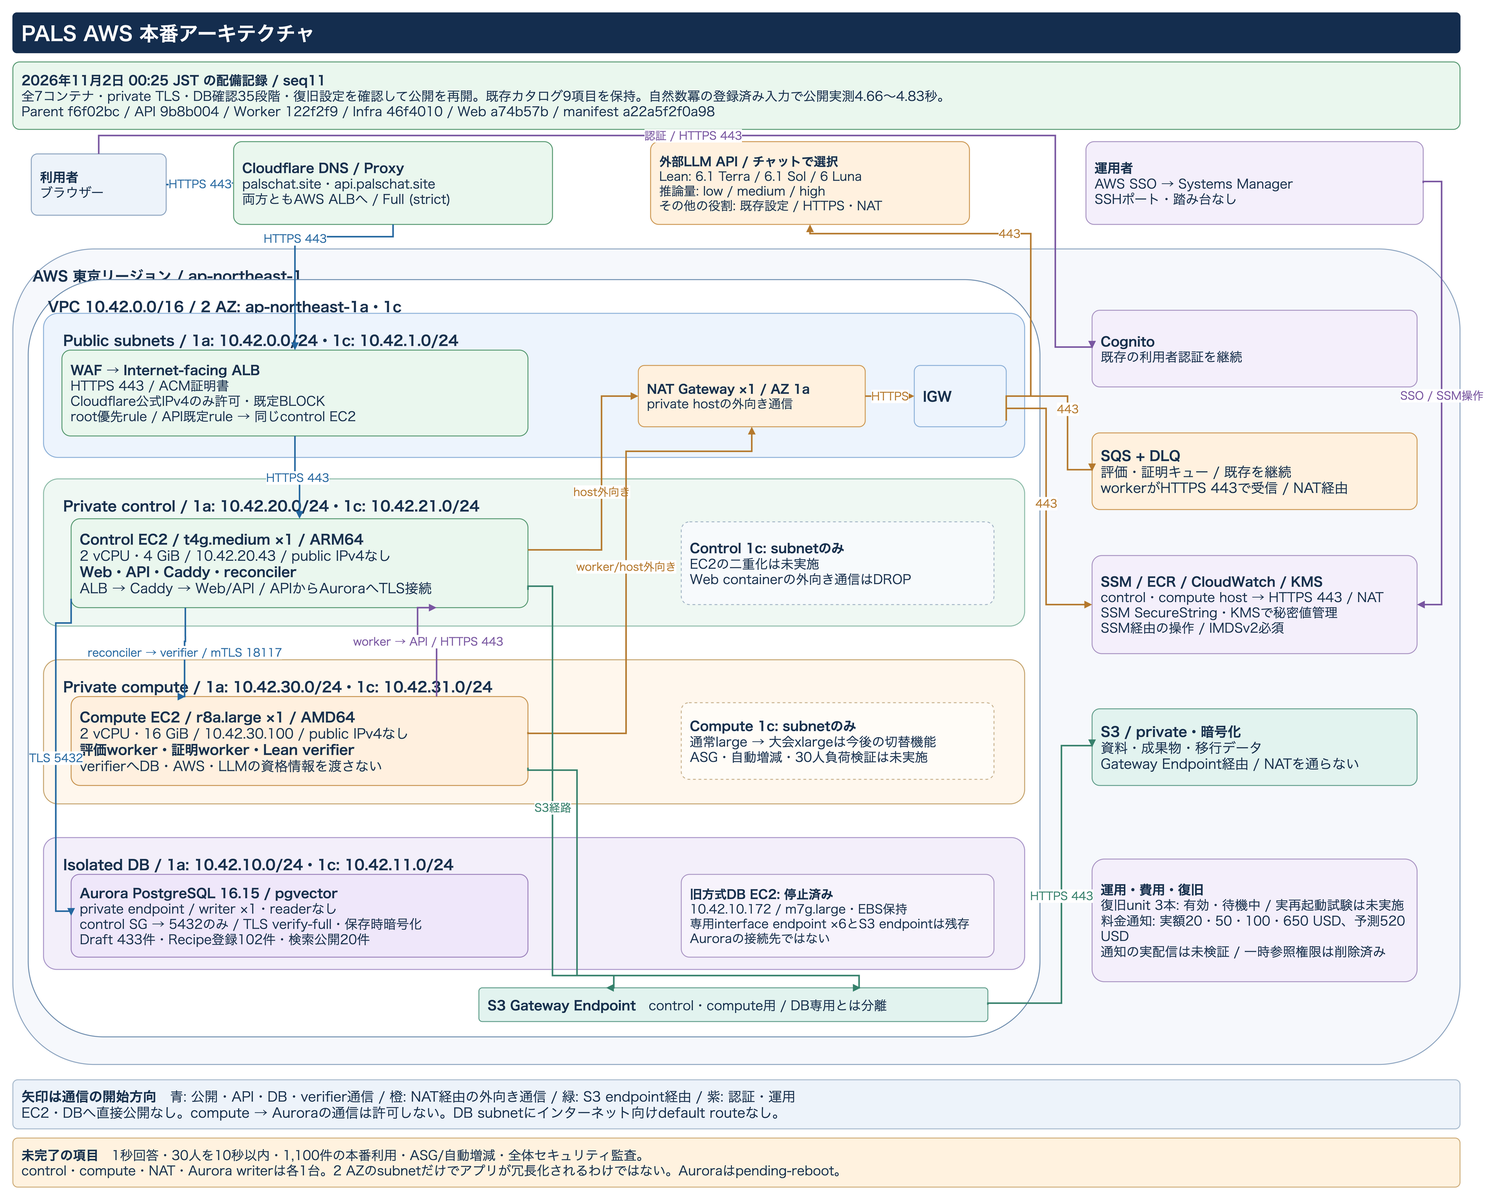
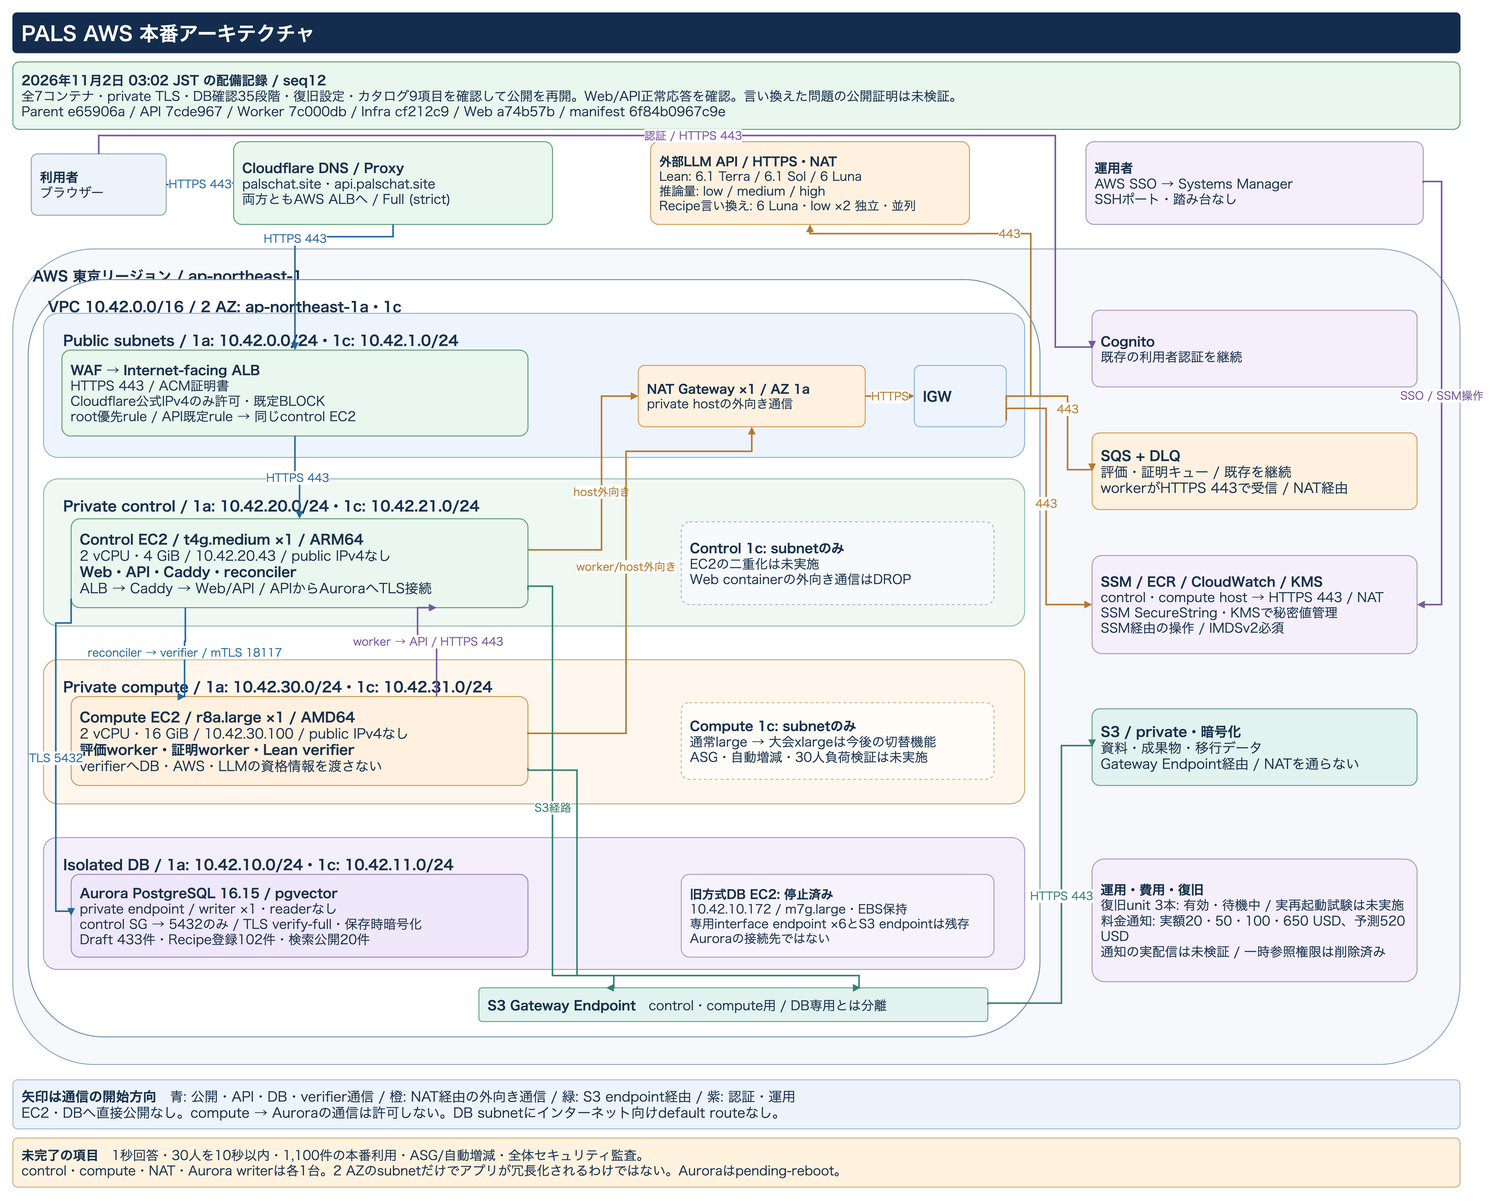
Document deployed semantic Recipe reuse and AWS sequence 12 (#128)

Changed region(s): [[0.1868, 0.0619, 0.6226, 0.0929], [0.4358, 0.1239, 0.5915, 0.1858], [0.0934, 0.0619, 0.1245, 0.0929]]

diff --git a/docs/diagrams/generate_architecture.py b/docs/diagrams/generate_architecture.py
@@ -1,7 +1,7 @@
 #!/usr/bin/env python3
-"""Generate the editable seq11 architecture snapshot; export PNG with draw.io.
+"""Generate the editable seq12 architecture snapshot; export PNG with draw.io.
 
-Evidence: signed seq11 manifest and actual both-host/catalog read-back receipts,
+Evidence: signed seq12 manifest and actual both-host/catalog read-back receipts,
 docs/aws-security-and-catalog-check-2026-10-31.md. No AWS calls are made.
 All coordinates, labels and connectors below are diagram source, not an image.
 """
@@ -11,7 +11,7 @@ from xml.etree import ElementTree as ET
 DEST = Path(__file__).with_name('pals-aws-private-target.drawio')
 WIDTH, HEIGHT = 2440, 1980
 mxfile = ET.Element('mxfile', host='app.diagrams.net', agent='PALS architecture authoring', version='32.6.1')
-diagram = ET.SubElement(mxfile, 'diagram', id='pals-private-current', name='AWS deployed architecture — seq11 2026-11-02')
+diagram = ET.SubElement(mxfile, 'diagram', id='pals-private-current', name='AWS deployed architecture — seq12 2026-11-02')
 model = ET.SubElement(diagram, 'mxGraphModel', dx=str(WIDTH), dy=str(HEIGHT), grid='1', gridSize='10', guides='1', tooltips='1', connect='1', arrows='1', fold='1', page='1', pageScale='1', pageWidth=str(WIDTH), pageHeight=str(HEIGHT), background='#ffffff', math='0', shadow='0')
 root = ET.SubElement(model, 'root')
 ET.SubElement(root, 'mxCell', id='0')
@@ -43,7 +43,7 @@ def edge(identifier, source, target, value='', color='#2467a0', points=(), extra
 
 # Zones are drawn first. Boxes remain individually editable in draw.io.
 box('title', '<b>PALS AWS 本番アーキテクチャ</b>', 40, 25, 2360, 65, '#142d4e', '#142d4e', 32, 'fontColor=#ffffff;')
-box('snapshot', '<b>2026年11月2日 00:25 JST の配備記録 / seq11</b><br>全7コンテナ・private TLS・DB確認35段階・復旧設定を確認して公開を再開。既存カタログ9項目を保持。自然数冪の登録済み入力で公開実測4.66〜4.83秒。<br>Parent f6f02bc / API 9b8b004 / Worker 122f2f9 / Infra 46f4010 / Web a74b57b / manifest a22a5f2f0a98', 40, 105, 2360, 110, '#eaf7ee', '#579a72', 21)
+box('snapshot', '<b>2026年11月2日 03:02 JST の配備記録 / seq12</b><br>全7コンテナ・private TLS・DB確認35段階・復旧設定・カタログ9項目を確認して公開を再開。Web/API正常応答を確認。言い換えた問題の公開証明は未検証。<br>Parent e65906a / API 7cde967 / Worker 7c000db / Infra cf212c9 / Web a74b57b / manifest 6f84b0967c9e', 40, 105, 2360, 110, '#eaf7ee', '#579a72', 21)
 zone('region', 'AWS 東京リージョン / ap-northeast-1', 40, 410, 2360, 1330, '#f6f8fc', '#8ca4c0')
 zone('vpc', 'VPC 10.42.0.0/16 / 2 AZ: ap-northeast-1a・1c', 65, 460, 1650, 1235, '#ffffff', '#6f8eaf')
 zone('public', 'Public subnets / 1a: 10.42.0.0/24・1c: 10.42.1.0/24', 90, 515, 1600, 235, '#edf4fd', '#8db1d9')
@@ -70,7 +70,7 @@ box('old_database', '<b>旧方式DB EC2: 停止済み</b><br>10.42.10.172 / m7g.
 box('s3_endpoint', '<b>S3 Gateway Endpoint</b>　control・compute用 / DB専用とは分離', 800, 1615, 830, 55, '#e2f3ef', '#639f8d', 21)
 
 # Regional / external services: endpoint placement is not a private subnet.
-box('llm', '<b>外部LLM API / チャットで選択</b><br>Lean: 6.1 Terra / 6.1 Sol / 6 Luna<br>推論量: low / medium / high<br>その他の役割: 既存設定 / HTTPS・NAT', 1080, 235, 520, 135, '#fff1df', '#cf9a56', 20)
+box('llm', '<b>外部LLM API / HTTPS・NAT</b><br>Lean: 6.1 Terra / 6.1 Sol / 6 Luna<br>推論量: low / medium / high<br>Recipe言い換え: 6 Luna・low ×2 独立・並列', 1080, 235, 520, 135, '#fff1df', '#cf9a56', 20)
 box('sqs', '<b>SQS + DLQ</b><br>評価・証明キュー / 既存を継続<br>workerがHTTPS 443で受信 / NAT経由', 1800, 710, 530, 125, '#fff1df', '#cf9a56', 22)
 box('aws_api', '<b>SSM / ECR / CloudWatch / KMS</b><br>control・compute host → HTTPS 443 / NAT<br>SSM SecureString・KMSで秘密値管理<br>SSM経由の操作 / IMDSv2必須', 1800, 910, 530, 160, '#f4effb', '#aa95c4', 21)
 box('s3', '<b>S3 / private・暗号化</b><br>資料・成果物・移行データ<br>Gateway Endpoint経由 / NATを通らない', 1800, 1160, 530, 125, '#e2f3ef', '#639f8d', 22)

diff --git a/docs/diagrams/README.md b/docs/diagrams/README.md
@@ -1,6 +1,6 @@
 # PALSのAWS構成図
 
-2026年11月2日00:25 JSTに公開を再開したseq11の構成を示します。全7コンテナ、サービス間TLS、Auroraの35段階の状態確認、カタログ保持、復旧unitを確認した配備図です。ネットワーク構成とEC2の配置はseq7から変えていません。ログインなしでのRecipe再利用とLeanソース表示は公開後に確認しました。選択モデルの利用量精算は引き続き確認中です。構成変更時には実設定を再確認して更新します。
+2026年11月2日03:02:32 JSTに公開を再開したseq12の構成を示します。全7コンテナ、サービス間TLS、Auroraの35項目、カタログ9項目の保持、復旧unitを実機で確認した配備図です。ネットワークとEC2の配置はseq11から変えていません。公開WebとAPI healthのHTTP 200まで確認済みで、言い換えた質問への公開画面での証明生成は未検証です。
 
 ![PALSのAWS構成図](pals-aws-private-target.png)
 
@@ -24,27 +24,27 @@ WAFはCloudflareの公式IPv4範囲を許可し、既定では拒否します。
 
 ## 確認済みの状態と残る作業
 
[2 lines of base64/hex data omitted]
 
-チャットからGPT-6.1 Terra・GPT-6.1 Sol・GPT-6 Lunaと、推論量low・medium・highを選べます。既定はTerraのmediumです。自動的なモデル切り替えは行いません。seq10でRecipe再利用と独立審査の並列化を配備し、seq11で新しい検証記録をゲストの回答取得にも適用しました。Web・verifierのイメージとtoolchainは保持しています。
+チャットからGPT-6.1 Terra・GPT-6.1 Sol・GPT-6 Lunaと、推論量low・medium・highを選べます。既定はTerraのmediumです。自動的なモデル切り替えは行いません。seq12では、数学的な言い換えに対して現在の20候補を調べ、独立した2つのLuna・low呼び出しで質問の条件と保存回答の対応を並列に確認します。両方が同じ候補を認めた場合だけ再利用します。Web・verifierのイメージとtoolchainは保持しています。
 
 | 配備元 | commit |
 | --- | --- |
-| 親リポジトリ | `f6f02bc4f876aef13e688fec8d21b01af1a522bc` |
-| API | `9b8b004463f2be2579eb80d71149a4378eeb4675` |
-| worker | `122f2f92e75220c3f34e224b20a63bb28addde2c` |
-| infra | `46f4010177a1ea5a79a785d312acc122ad8581be` |
+| 親リポジトリ | `e65906a01ff182e7e40e5aa7a98b8bdf7ae09751` |
+| API | `7cde9674b0ff61d92116280f303638351362729e` |
+| worker | `7c000dbb84288e01391e72bde796b53bfdd51608` |
+| infra | `cf212c9134e4c4bf7a6747d8628f61bd98dd6027` |
 | Web | `a74b57b130ac0de6c7bf793ca095e81b54c4344f` |
 
[2 lines of base64/hex data omitted]
 
-ログインなしで、0を含む自然数冪の連続性を同じ問題文で3回送信しました。送信クリックから回答表示までは4.775秒・4.664秒・4.830秒で、保存済みRecipeの回答とLeanソースを取得できました。DBでの回答保存までは2.664秒・2.507秒・2.683秒でした。別の読み取り確認SSM `1135bd28-7d27-4f16-865f-2fc2f6ea5972`で、3件ともモデル呼び出し・新規証明jobが0件であることを確認しました。
+固定環境から実APIを呼び出した32問の測定では、同値・変数名変更13問中11問を受理し、条件などが異なる19問をすべて拒否しました。受理した分類時間は6.082〜9.883秒で、キュー待ち・保存・ブラウザー表示を含みません。cached入力tokenは0でした。右極限とπの2件は同値でも再利用できず、保存回答を直すrevision 2は未登録です。[言い換えの測定結果と限界](../aws-recipe-semantic-benchmark-2026-11-02.md)に記録しています。
 
-高速経路は、独立審査済みの完全な日本語入力2文を対象とし、文脈・資料がなく規約が一致する場合に限ります。公開実測したのはそのうち1文です。通常経路の独立した審査も並列化しましたが、すべての質問が10秒以内になるとは確認していません。[測定方法と対象](https://github.com/AtsushiHosaka/pals/blob/5e88f2eab52f422fe664b47aa17754729f48c72a/docs/aws-recipe-reuse-latency-2026-10-31.md)を参照してください。
+以前のseq11では、0を含む自然数冪の同じ入力をログインなしで3回送信し、4.775秒・4.664秒・4.830秒で回答とLeanソースを表示しました。モデル呼び出し・新規証明jobは0件でした。これは独立審査済みの完全な日本語入力2文のうち1文を公開測定した記録です。今回の言い換え経路の公開応答時間とは区別します。[過去の測定方法と対象](../aws-recipe-reuse-latency-2026-10-31.md)を参照してください。
 
 AuroraにはDraft 433件、検証済みの登録Recipe 102件があります。Recipeのうち検索公開済みは20件です。カタログ9項目の件数と内容のfingerprintは更新前後で一致しました。1,100件の本番利用可能という目標は未達成です。
 
-ASG、自動増減、大会時のxlargeへの切り替えは未配備です。1秒回答、30件を10秒以内に処理する性能、ホスト再起動からの復旧は未検証です。Aurora writerは直近の設定確認で`pending-reboot`を示しており、再起動は行っていません。復旧unitは有効ですが、運用ツールによる現リリースの再起動・再構築期限は11月3日00:08:30 JSTです。稼働サービスはこの時刻だけで停止しません。
+ASG、自動増減、大会時のxlargeへの切り替えは未配備です。1秒回答、30件を10秒以内に処理する性能、ホスト再起動からの復旧は未検証です。Aurora writerは直近の設定確認で`pending-reboot`を示しており、再起動は行っていません。復旧unitは有効ですが、現リリースの署名済みmanifestの有効期限は11月3日02:29:04 JSTです。期限後の運用操作には有効なリリースの準備が必要です。稼働サービスはこの時刻だけで停止しません。
 
 ## 図の編集とPNGの書き出し
 

diff --git a/README.md b/README.md
@@ -9,35 +9,27 @@ GitHub remotes are created.
 
 ## AWS構成図・配備状況
 
-2026年11月2日00:25:23 JSTにseq11の公開を再開しました。全7コンテナ、サービス間TLS、Auroraの35段階の状態、カタログ保持、復旧unitを実機で確認済みです。配備用の一時KMS・RDS参照権限は削除し、不在を確認しました。
-
-[![PALSのAWS構成図](docs/diagrams/pals-aws-private-target.png)](docs/diagrams/pals-aws-private-target.png)
+[![PALS AWS architecture and deployment status](docs/diagrams/pals-aws-private-target.png)](docs/diagrams/pals-aws-private-target.png)
 
 [PNGを拡大](docs/diagrams/pals-aws-private-target.png) · [draw.ioで編集](docs/diagrams/pals-aws-private-target.drawio) · [配置・通信・確認範囲](docs/diagrams/README.md)
 
-| 層 | 配備構成 |
+2026年11月2日03:02:32 JSTに、署名済みseq12を配備し、元のALB listenerとruleで公開を再開しました。全7コンテナ、サービス間TLS、DBの35項目、復旧unitを実機で確認し、カタログ9項目の件数・fingerprintが一致しました。一時的なKMS検証・RDS参照権限は削除済みです。公開WebとAPI healthのHTTP 200を確認しました。言い換えた質問への公開画面での証明生成は、ログイン確認待ちのため未検証です。
+
+数学的な言い換えには、現在の検索公開済み20候補をGPT-6 Luna・lowの独立した2呼び出しで並列に確認する経路を配備しました。型・仮定・量化・結論・方法と、保存回答がその質問に答えていることを確かめ、両者が一致した場合だけ再利用します。実APIを使った32問では、同値・変数名変更13問中11問を受理し、条件などが異なる19問はすべて拒否しました。受理した分類時間は6.082〜9.883秒ですが、キュー・保存・ブラウザー表示は含みません。cached入力tokenは0でした。[測定結果と2件の見逃し](docs/aws-recipe-semantic-benchmark-2026-11-02.md)を記録しています。右極限とπの回答を明確にするrevision 2は未登録です。
+
+Web・APIはprivate controlのt4g.medium、Lean worker・verifierはprivate computeのr8a.large、DBはAuroraです。物理構成はseq11から変えていません。大会時のxlarge切り替え、ASG・自動スケールは未配備です。1秒回答、30人同時利用、1,100件の本番利用は未達成または未検証です。Lean生成の既定はTerra・mediumで、モデルの自動切り替えはありません。
+
[1 lines of base64/hex data omitted]
+
+| 配備元 | commit |
 | --- | --- |
-| 公開入口 | Cloudflare → WAFを関連付けた公開ALB → private controlのCaddy。Web・APIともHTTPS |
-| Web・API | t4g.medium ×1。Web、API、Caddy、reconcilerを実行。公開IPv4なし |
-| Lean・生成 | r8a.large ×1。評価worker、証明worker、隔離Lean verifierを実行。公開IPv4なし |
-| DB | isolated subnetのAurora PostgreSQL 16.15・pgvector。controlからTLSで接続。writerは1台 |
-| 外向き通信・運用 | 許可された通信はNAT Gateway経由。S3はGateway Endpoint経由。AWS SSO・SSMで管理 |
+| 親リポジトリ | `e65906a01ff182e7e40e5aa7a98b8bdf7ae09751` |
+| API | `7cde9674b0ff61d92116280f303638351362729e` |
+| worker | `7c000dbb84288e01391e72bde796b53bfdd51608` |
+| infra | `cf212c9134e4c4bf7a6747d8628f61bd98dd6027` |
+| Web | `a74b57b130ac0de6c7bf793ca095e81b54c4344f` |
 
-以前137.447秒かかった自然数冪の連続性の問題は、検証済みRecipeを再利用するよう修正しました。ログインなしの同じ通常ゲストで、新しい3チャットへの回答とLeanソース表示を確認しました。
-
-| 測定 | 送信クリックから回答表示 | 要求作成からDB保存 |
-| --- | --- | --- |
-| 1 | 4.775秒 | 2.664秒 |
-| 2 | 4.664秒 | 2.507秒 |
-| 3 | 4.830秒 | 2.683秒 |
-
-3件とも`lean_catalog`で、保存済みの回答・Lean・コンパイル記録のハッシュが一致しています。別の本番読み取り確認で、モデル使用量・token呼び出し・新しい証明jobは0件でした。通常ゲスト枠を3から0まで消費し、リセットはしていません。
-
-高速経路は、審査済みの完全な日本語入力2文と適合する規約・空の文脈を対象とします。公開で測定したのはそのうち1文です。それ以外の入力は通常の審査を通し、独立した2つの審査を並列化しました。すべての質問が10秒以内になるとは確認していません。[問題文・実行ID・測定方法](https://github.com/AtsushiHosaka/pals/blob/5e88f2eab52f422fe664b47aa17754729f48c72a/docs/aws-recipe-reuse-latency-2026-10-31.md#11月2日の実装と公開確認の状況)に対象範囲を記録しています。
-
[1 lines of base64/hex data omitted]
-
-図には実際の通信方向とsubnetを記載しています。大会時のxlarge切り替えと自動スケールは未配備です。1秒回答・30件を10秒以内に処理する性能、1,100件の本番利用も未達成または未検証です。全層の冗長化やセキュリティ監査の完了を示す図ではありません。[配備・復旧手順と実行記録](https://github.com/AtsushiHosaka/pals/blob/5e88f2eab52f422fe664b47aa17754729f48c72a/docs/aws-migration-runbook-2026-10-30.md)も参照してください。
+以前のseq11では、完全一致する自然数冪の日本語入力をモデル呼び出しなしで再利用し、通常ゲストの3チャットで4.775秒・4.664秒・4.830秒で回答とLeanソースを表示しました。これは今回の言い換え経路とは別の公開実測です。[対象の全文・測定方法・利用枠・記録](docs/aws-recipe-reuse-latency-2026-10-31.md)を参照してください。
 
 ## Repository Layout
 

diff --git a/docs/aws-recipe-semantic-benchmark-2026-11-02.md b/docs/aws-recipe-semantic-benchmark-2026-11-02.md
@@ -1,0 +1,45 @@
+# Recipeの数学的な言い換えに対する実API評価
+
+GPT-6 Luna・lowを固定し、自然数冪の連続性、tan 1°の無理性、右極限と非連続性、πの下界を評価しました。質問は32件、候補は既存の承認済み20件です。2つの独立したモデル呼び出しが、元の日本語と既知の数学上の規約、各候補の定理・Lean・保存回答を確認します。正解ラベルや期待する選択結果はモデルへ送りません。
+
+測定には、既存worker `122f2f92e75220c3f34e224b20a63bb28addde2c`の固定ビルド環境と、新しい審査promptを使いました。現在の作業中ソースからは読み込まず、全141 Pythonファイルをcommitとsource archiveに照合しています。この測定は固定したローカル環境から実APIを呼び出した実験です。公開サービスの応答時間とは分けて扱います。
+
+## 判定結果
+
+| 分野 | 同値・変数名変更の受理 | 非同一・方法不一致の拒否 | 受理した分類時間 |
+|---|---:|---:|---:|
+| 自然数冪の連続性 | 4/4 | 5/5 | 6.135〜6.715秒 |
+| tan 1°の無理性 | 3/3 | 5/5 | 8.489〜9.883秒 |
+| 右極限と非連続性 | 2/3 | 5/5 | 6.082〜6.860秒 |
+| πの下界 | 2/3 | 4/4 | 6.386〜6.672秒 |
+| 合計 | 11/13 | 19/19 | 6.082〜9.883秒 |
+
+独立した呼び出しは64回で、すべてHTTP 200でした。parser失敗とprovider失敗は0件です。同値の13問は、回答の再利用が難しかった場合も分母から除いていません。
+
+受理しなかった同値入力は2件あります。`right_limit_and_discontinuity.rename_function`では、質問の関数gと保存回答のfとの対応を説明していないとして、一方の回答QAが拒否しました。`pi_gt_305.exact_bound`では、問題が既知の厳密な下界の利用を許していたにもかかわらず、一方の回答QAが引用した3.14<πの説明を不十分と判断しました。いずれも、見逃し・適用上の制限として記録します。
+
+陰性の`pi_gt_305.not_equal_only`では、一方の審査だけが、より強い不等式から従うという理由で誤って再利用を承認しました。もう一方が結論の不一致を拒否したため、合議では再利用しませんでした。最終的な誤受理が0件でも、個々のモデル判断が完全だったとは扱いません。
+
+## 時間と使用量
+
+分類時間は、並列の2呼び出しとローカルの解析・合議が終わるまでです。キュー待ち、カタログ取得、回答保存、ブラウザー表示を含みません。全32件は4.891〜11.067秒、中央値6.768秒、p95は9.248秒でした。受理した11件は6.082〜9.883秒、中央値6.672秒、p95は9.306秒です。p95は順位(n−1)×0.95の線形補間で求めた記述統計で、運用上の保証値ではありません。
+
+今回の64呼び出しは入力1,034,594token、出力28,776tokenで、そのうち推論tokenは11,256でした。推論tokenは出力に含まれるため、重ねて加算していません。cached入力tokenはすべて0で、prefix配置によるキャッシュ効果は実測では確認できませんでした。raw HTTP応答の使用量とSDKの使用量の一致を確認し、集計にはraw側だけを使っています。
+
+## 既存の公開実測との違い
+
+seq11の完全一致経路では、固定した日本語入力を既存Recipeへ結び付け、モデルを呼ばずに回答を返しました。公開画面で3回とも4.66〜4.83秒だった記録は、この完全一致経路のものです。今回の経路は、全文一致する問題文を増やして対応範囲を広げるものではなく、2回の実モデル呼び出しで数学的な内容と保存回答を確かめます。新しい経路の公開画面での回答時間は確認待ちです。
+
+右極限とπの保存回答を明確にするrevision 2は、候補作成までです。新しい実コンパイル、独立審査、署名、登録は未実施で、旧revisionの履歴は変更していません。既知の数学データの改善と、審査条件を緩める変更は分けて扱います。
+
+## 根拠と公開前の確認
+
[1 lines of base64/hex data omitted]
+
+## seq12の配備確認
+
+2026年11月2日03:02:32 JSTに、seq12の公開ALB listenerとruleを元に戻しました。全7コンテナ、private TLS、DBの35項目、復旧unitとカタログ9項目の保持を実機で確認しています。一時KMS検証・RDS参照権限の不在も確認しました。公開WebとAPI healthはHTTP 200でした。言い換えた質問への公開画面での証明生成は、ログイン確認待ちのため未検証です。
+
[1 lines of base64/hex data omitted]
+
+公開経路での10秒以内、任意の数学問題への対応、30人同時利用、p95の運用保証は、この32件からは確認できません。右極限とπのrevision 2も、登録と公開再測定が終わるまでは改善済みとしません。
